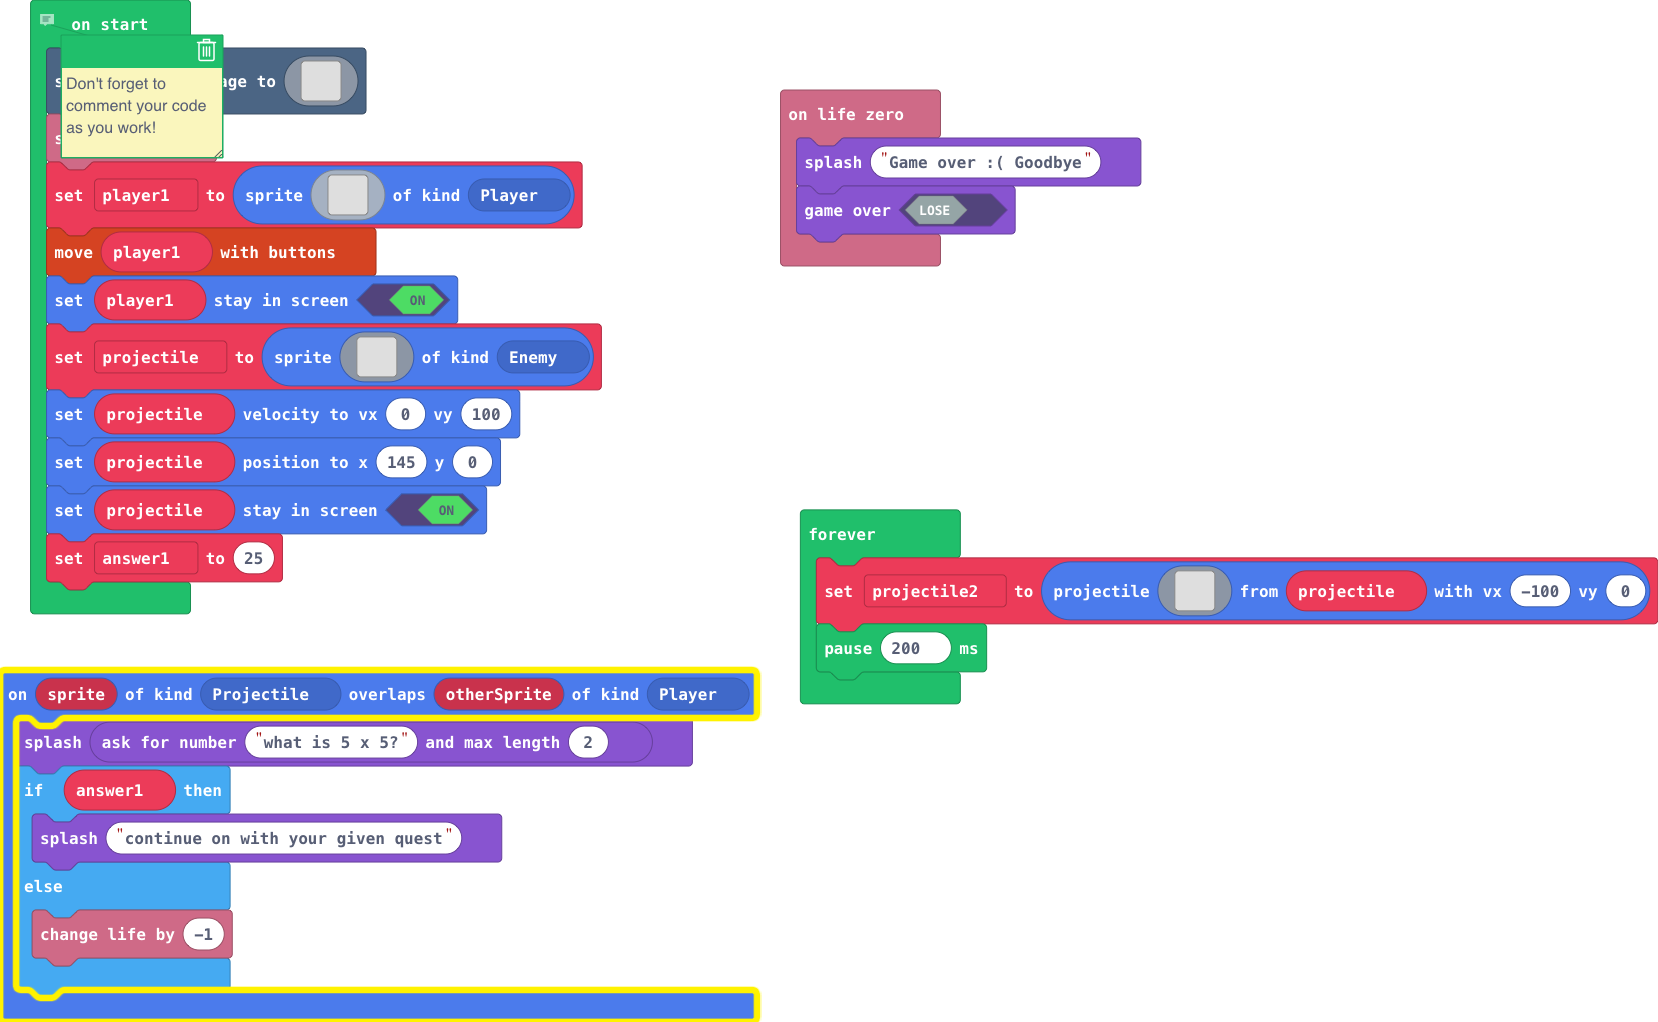
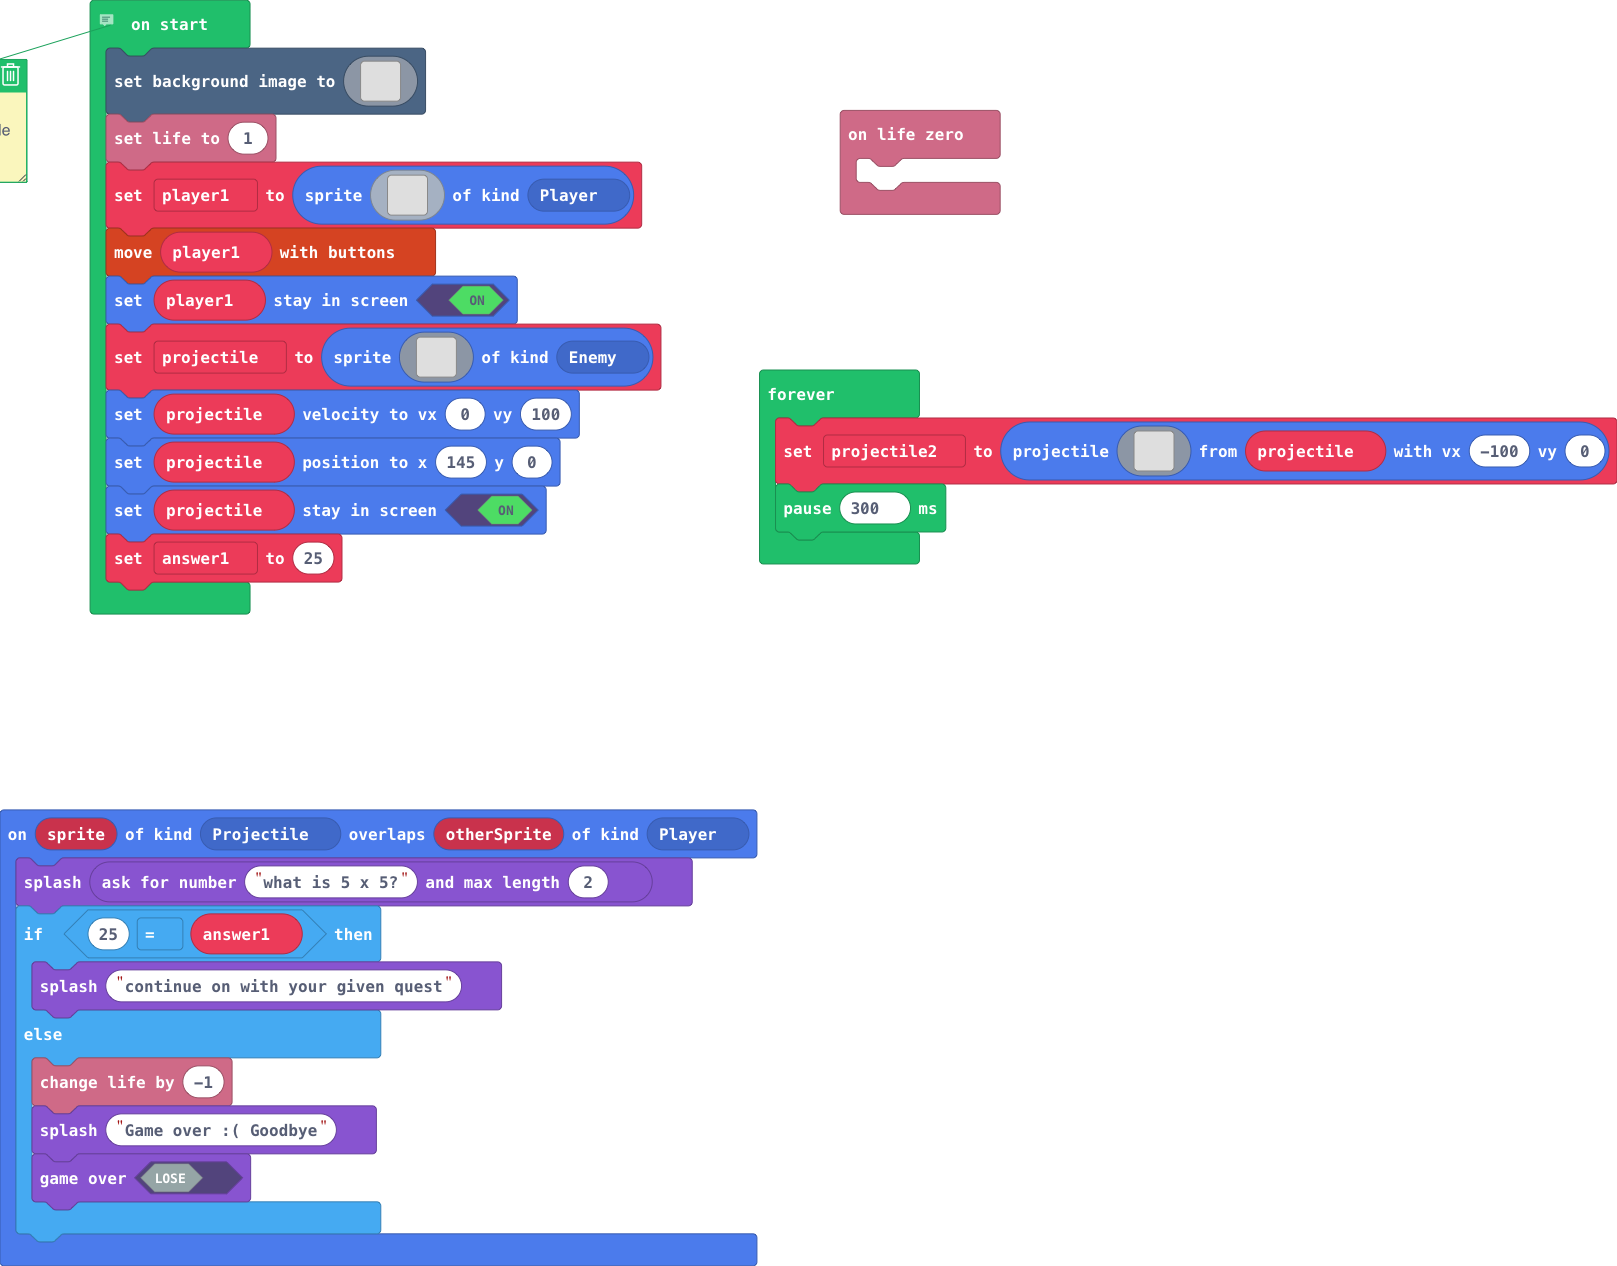
change life to 1

diff --git a/main.ts b/main.ts
@@ -1,14 +1,15 @@
 sprites.onOverlap(SpriteKind.Projectile, SpriteKind.Player, function (sprite, otherSprite) {
     game.splash(game.askForNumber("what is 5 x 5?", 2))
-    if (answer1) {
+    if (25 == answer1) {
         game.splash("continue on with your given quest")
     } else {
         info.changeLifeBy(-1)
+        game.splash("Game over :( Goodbye")
+        game.gameOver(false)
     }
 })
 info.onLifeZero(function () {
-    game.splash("Game over :( Goodbye")
-    game.gameOver(false)
+	
 })
 // Don't forget to comment your code as you work!
 let projectile2: Sprite = null
@@ -135,7 +136,7 @@ scene.setBackgroundImage(img`
     8888888888888888888888888888888888888888888888888888888888888888888888888888888888888888888888888888888888888888888888888888888888888888888888888888888888888888
[1 lines of base64/hex data omitted]
     `)
-info.setLife(6)
+info.setLife(1)
 let player1 = sprites.create(img`
     . . . . . . . . . . b 5 b . . . 
     . . . . . . . . . b 5 b . . . . 
@@ -197,5 +198,5 @@ forever(function () {
         . . . . . . . . . . . . . . . . 
         . . . . . . . . . . . . . . . . 
         `, projectile, -100, 0)
-    pause(200)
+    pause(300)
 })
